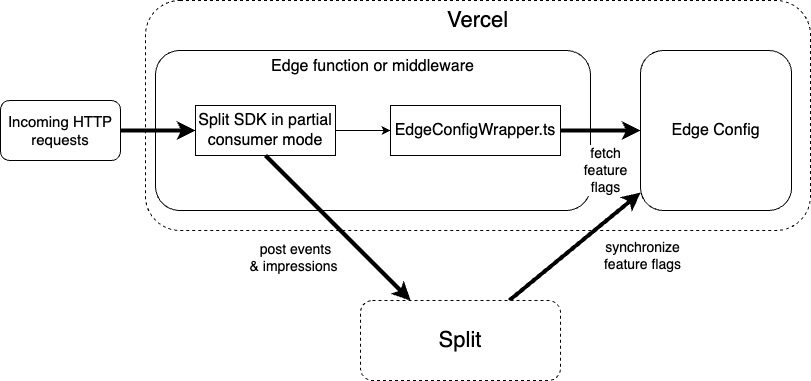
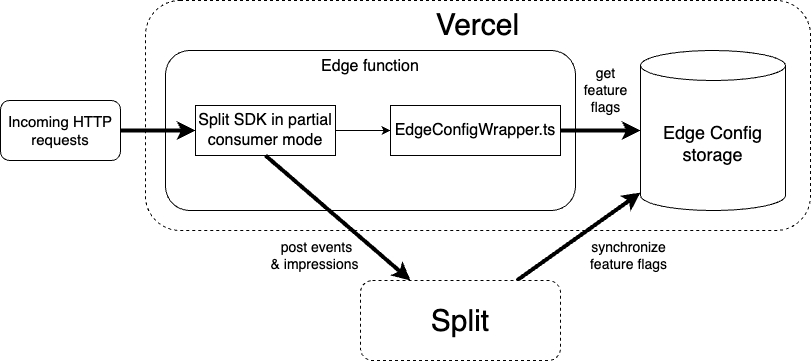
updated diagram and readme

diff --git a/README.md b/README.md
@@ -64,3 +64,13 @@ The project overall architecture is ilustrated in the following diagram:
     ```
     - Remember to update the Split API Key and Edge Config item key in the code above.
 3. Deploy your application to Vercel and test the integration.
+
+## Advanced use cases
+
+### Provide an Edge Config connection string
+
+@TODO
+
+### Using the Split SDK in a NodeJS runtime (serverless function)
+
+@TODO
